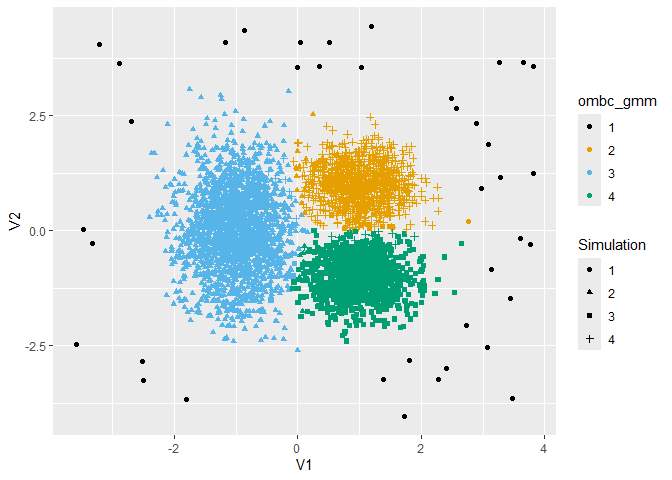
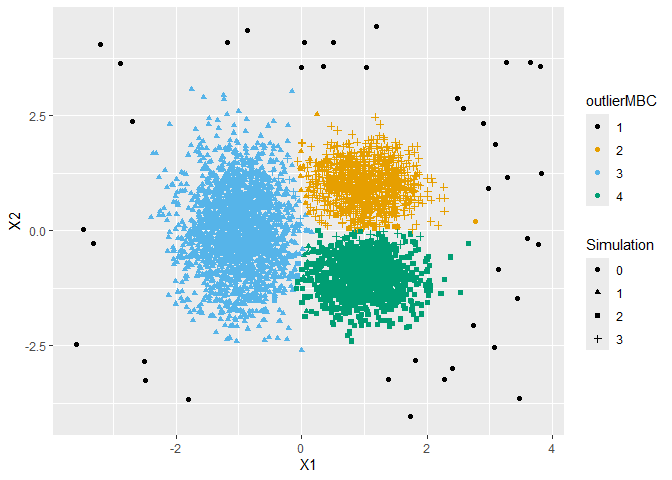
README

diff --git a/README.md b/README.md
@@ -22,46 +22,39 @@ devtools::load_all()
 ## Mixture Models
 
 ``` r
-n_vec <- c(2000, 1000, 1000)
-mu_list <- list(c(-1, 0), c(+1, -1), c(+1, +1))
-sigma_list <- list(
-  diag(c(0.2, 4 * 0.2)),
-  diag(c(0.2, 0.2)),
-  diag(c(0.2, 0.2))
-)
-
 gmm_p2g3 <- simulate_gmm(
-  n_vec, mu_list, sigma_list,
-  outlier_num = 40, seed = 123, crit_val = 0.9999,
+  n = c(2000, 1000, 1000),
+  mu = list(c(-1, 0), c(+1, -1), c(+1, +1)),
+  sigma = list(diag(c(0.2, 4 * 0.2)), diag(c(0.2, 0.2)), diag(c(0.2, 0.2))),
+  outlier_num = 40,
+  seed = 123,
+  crit_val = 0.9999,
   unif_range_multiplier = 1.5
 )
 
-ombc_gmm_p2g3 <- ombc_gmm(gmm_p2g3[, 1:2],
-  comp_num = 3, max_out = 80,
-  print_interval = Inf
+ombc_gmm_p2g3 <- ombc_gmm(
+  gmm_p2g3[, 1:2],
+  comp_num = 3,
+  max_out = 80
 )
 
-ggplot(
-  data.frame(
-    outliers_removed = 0:80,
-    distrib_diffs = ombc_gmm_p2g3$distrib_diffs
-  ),
-  aes(x = outliers_removed, y = distrib_diffs)
-) +
+data.frame(
+  outliers_removed = 0:80,
+  distrib_diffs = ombc_gmm_p2g3$distrib_diffs
+) |>
+  ggplot(aes(x = outliers_removed, y = distrib_diffs)) +
   geom_line() +
   geom_point() +
   geom_vline(xintercept = ombc_gmm_p2g3$outlier_num)
 
-ggplot(
-  as.data.frame(gmm_p2g3),
-  aes(
-    x = V1, y = V2,
+gmm_p2g3 |>
+  ggplot(aes(
+    x = X1, y = X2,
     colour = as.factor(ombc_gmm_p2g3$gmm_labels),
-    shape = as.factor(1 + labels)
-  )
-) +
+    shape = as.factor(G)
+  )) +
   geom_point() +
-  labs(colour = "ombc_gmm", shape = "Simulation") +
+  labs(colour = "outlierMBC", shape = "Simulation") +
   ggokabeito::scale_colour_okabe_ito(order = c(9, 1, 2, 3))
 ```
 
